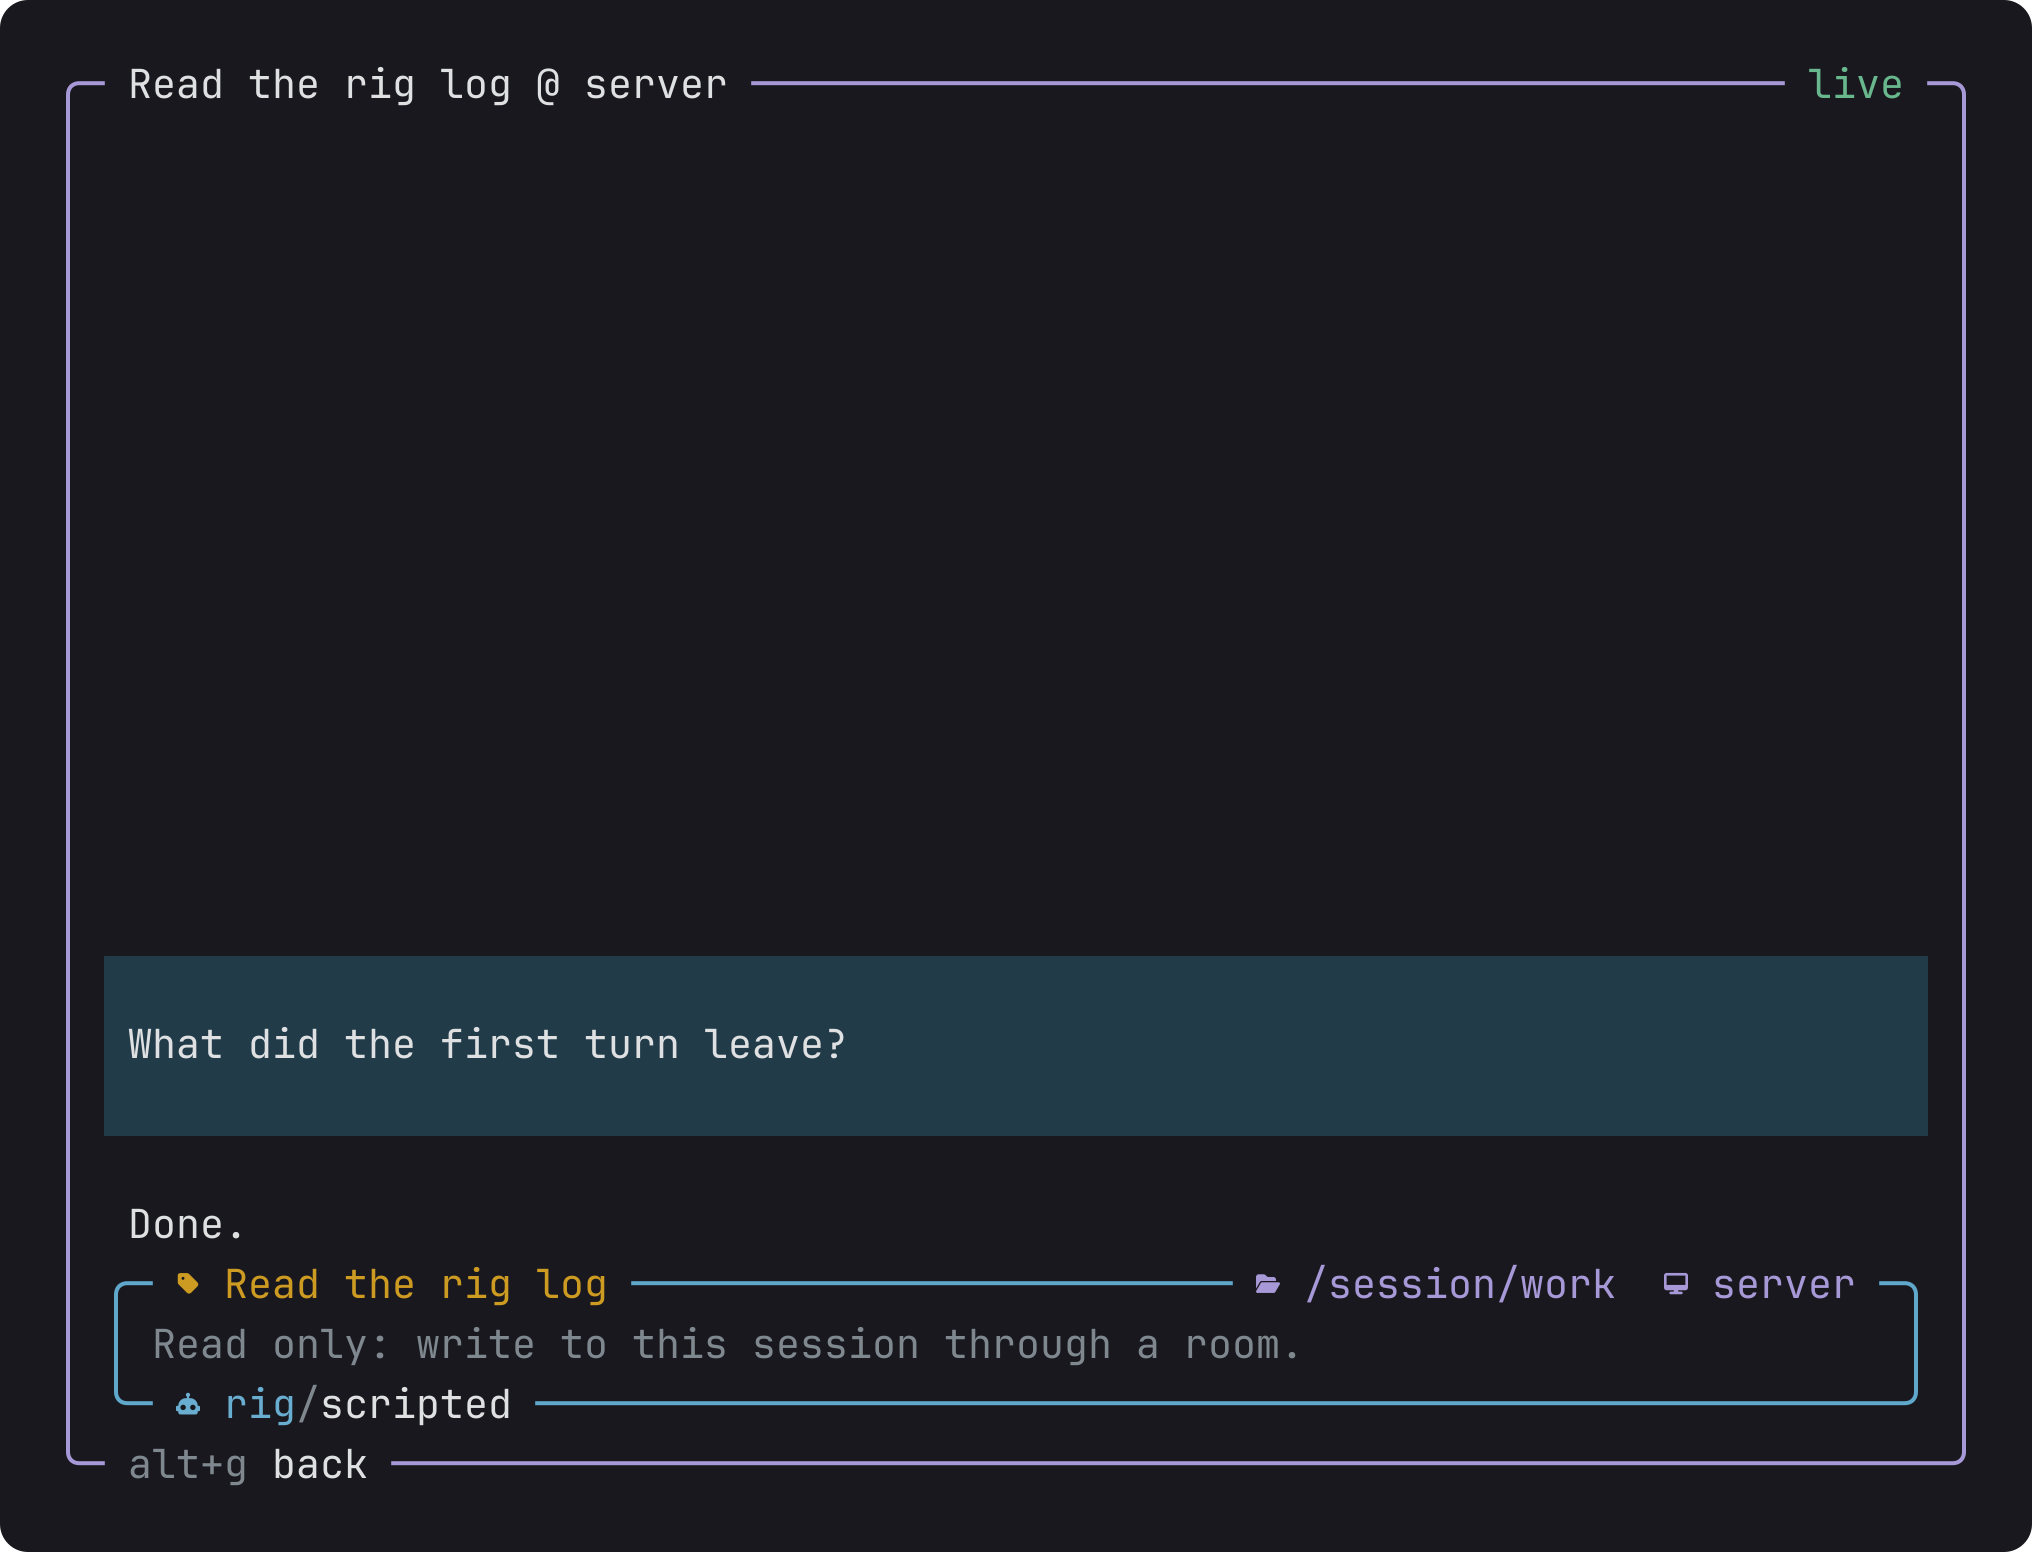
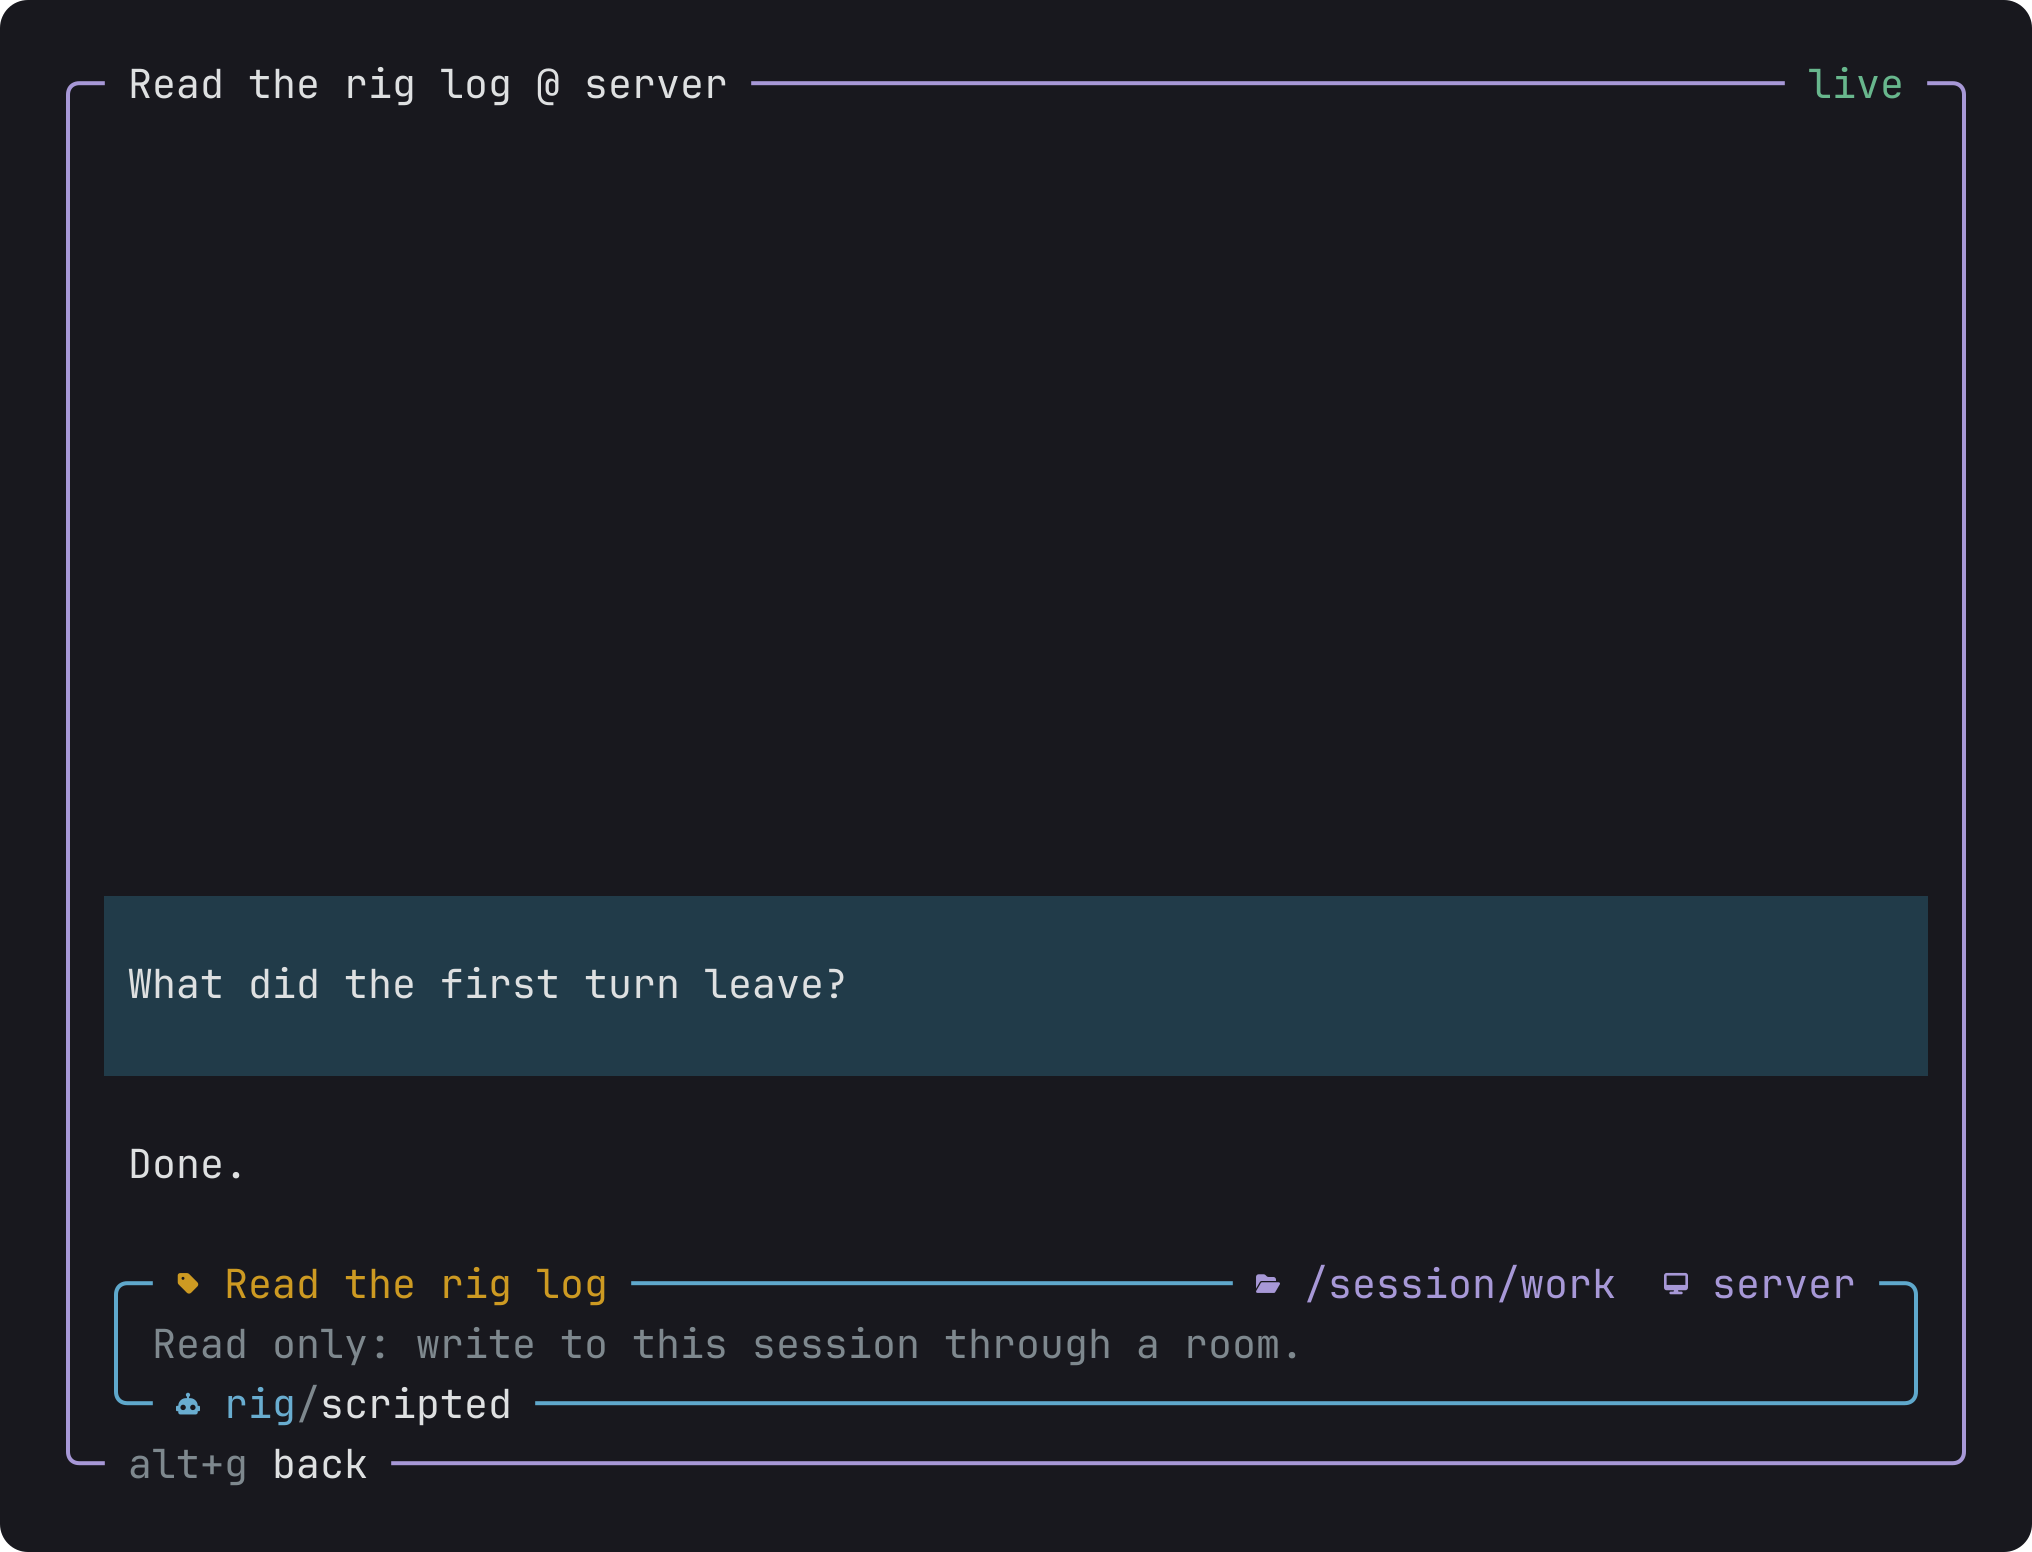
fix(look): set the viewed session's editor box one row apart from its transcript

Changed region(s): [[0.031, 0.5567, 0.9611, 0.8041]]

diff --git a/packages/look/src/view/view.ts b/packages/look/src/view/view.ts
@@ -20,8 +20,8 @@ import { type Screen, type SlotName, slotPieces } from "../ui/screen.ts";
 import { ViewState, Viewport } from "./state.ts";
 import { transcriptOf } from "./transcript.ts";
 
-/** Rows the frame and the editor box take from the screen. */
-const CHROME = 5;
+/** Rows the frame, the blank row over the editor box and the box take from the screen. */
+const CHROME = 6;
 const READ_ONLY = "Read only: write to this session through a room.";
 
 export interface ViewOptions {
@@ -81,7 +81,8 @@ export class SessionView implements Component, Focusable {
 		const body = [...Array.from({ length: height - shown.length }, () => ""), ...shown];
 		const snapshot = this.#state.snapshot;
 		const ended = this.#state.ended;
-		return entryFrame([...body, ...this.#editor(inner, snapshot)], width, theme, {
+		// A blank row sets the editor box apart from the transcript, as it is under your own.
+		return entryFrame([...body, "", ...this.#editor(inner, snapshot)], width, theme, {
 			top: titleOf(snapshot),
 			topRight: theme.fg(ended ? "dim" : "success", ended ? "ended" : "live"),
 			bottom: `${theme.fg("dim", "alt+g")} back`,
